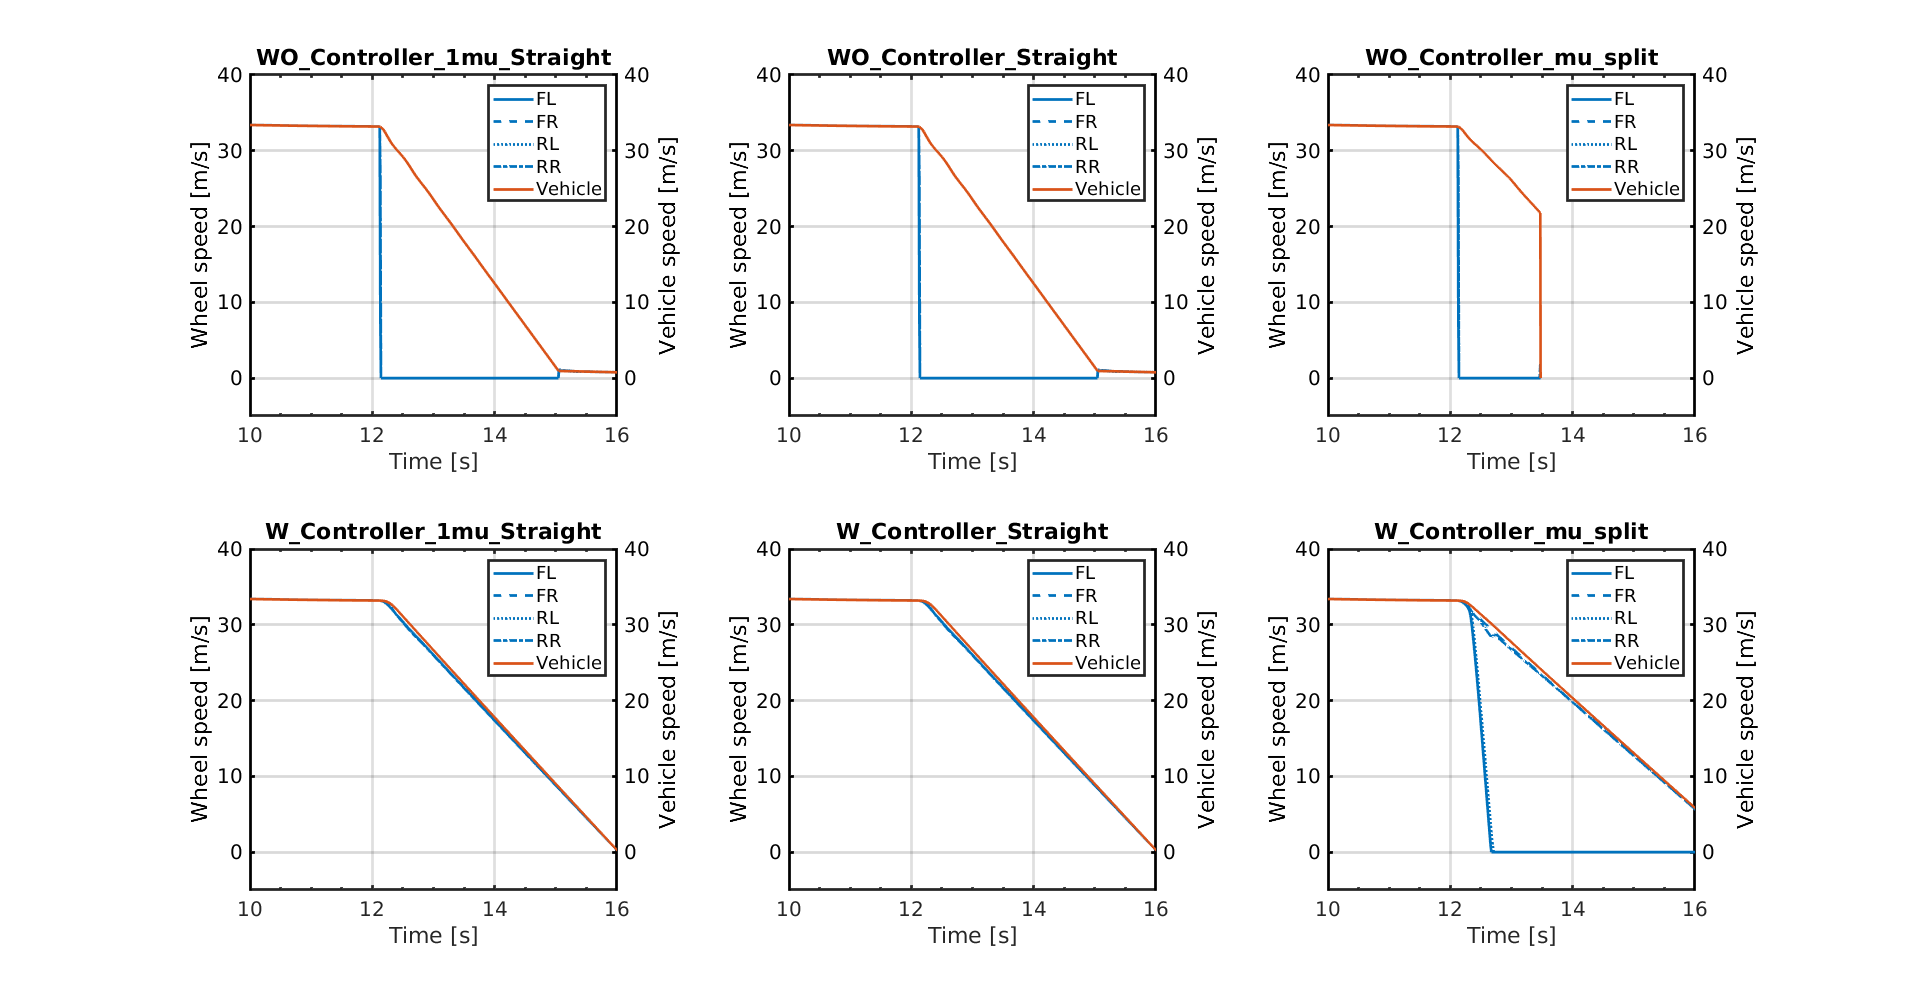
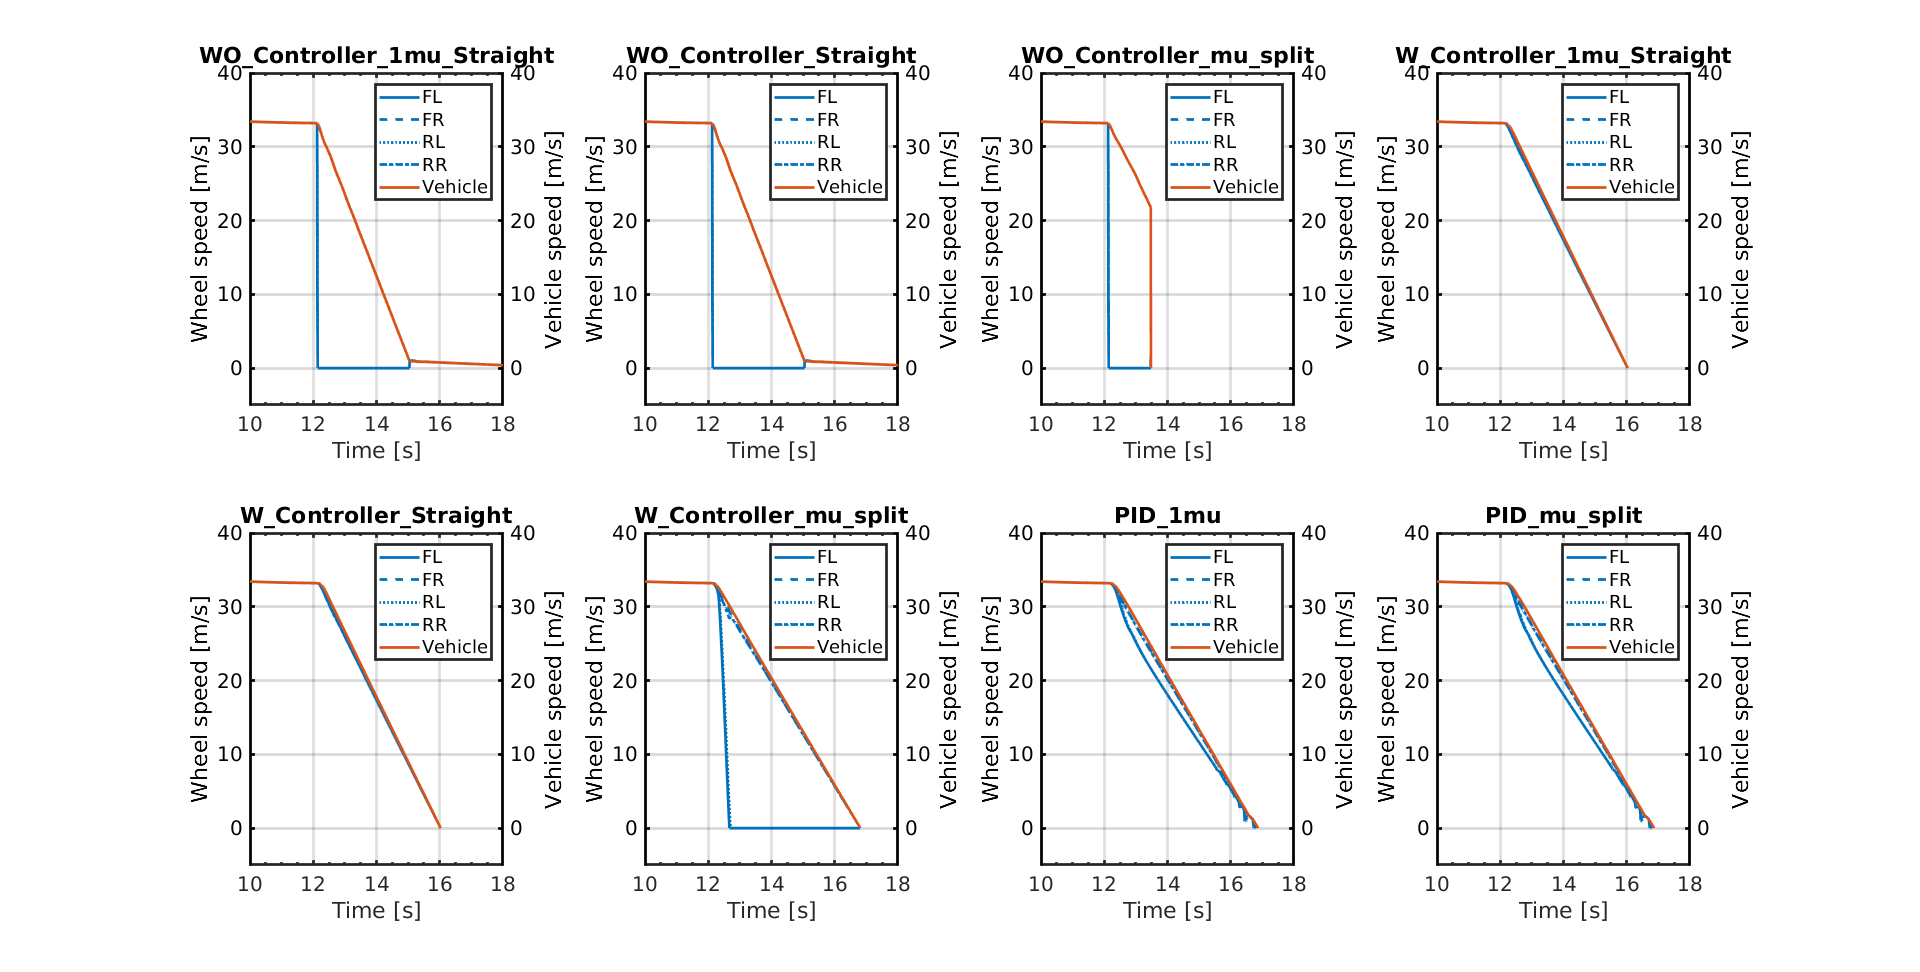
uploaded PID results

diff --git a/NIKHIL_DATA/result.m b/NIKHIL_DATA/result.m
@@ -10,7 +10,9 @@ files = {'WO_Controller_1mu_Straight.CSV', ...
     'WO_Controller_mu_split.CSV', ...
     'W_Controller_1mu_Straight.CSV', ...
     'W_Controller_Straight.CSV', ...
-    'W_Controller_mu_split.CSV'};
+    'W_Controller_mu_split.CSV', ...
+    'PID_1mu.CSV', ...
+    'PID_mu_split.CSV'};
 
 for i = 1:size(files,2)
     data{i} = importdata(files{i});
@@ -65,7 +67,7 @@ for i = 1:size(files,2)
     vel = data{i}.data(:,5);
     t  = data{i}.data(:,6);
 
-    subplot(2,3,i);
+    subplot(2,4,i);
     yyaxis left;
     plot(t, FL);
     hold on;
@@ -78,7 +80,7 @@ for i = 1:size(files,2)
     hold off;
     grid on;
     set(gca, 'YColor', 'k');
-    axis([10 16 -5 40]);
+    axis([10 18 -5 40]);
 
     yyaxis right;
     plot(t, vel);
@@ -91,8 +93,8 @@ for i = 1:size(files,2)
     name = split(name(1), '_');
     new_name = join(name, '\_');
     title(sprintf('%s', new_name{1}));
-    axis([10 16 -5 40]);
+    axis([10 18 -5 40]);
     ax = gca;
-    ax.XTick = 10:2:16;
+    ax.XTick = 10:2:18;
     
 end
